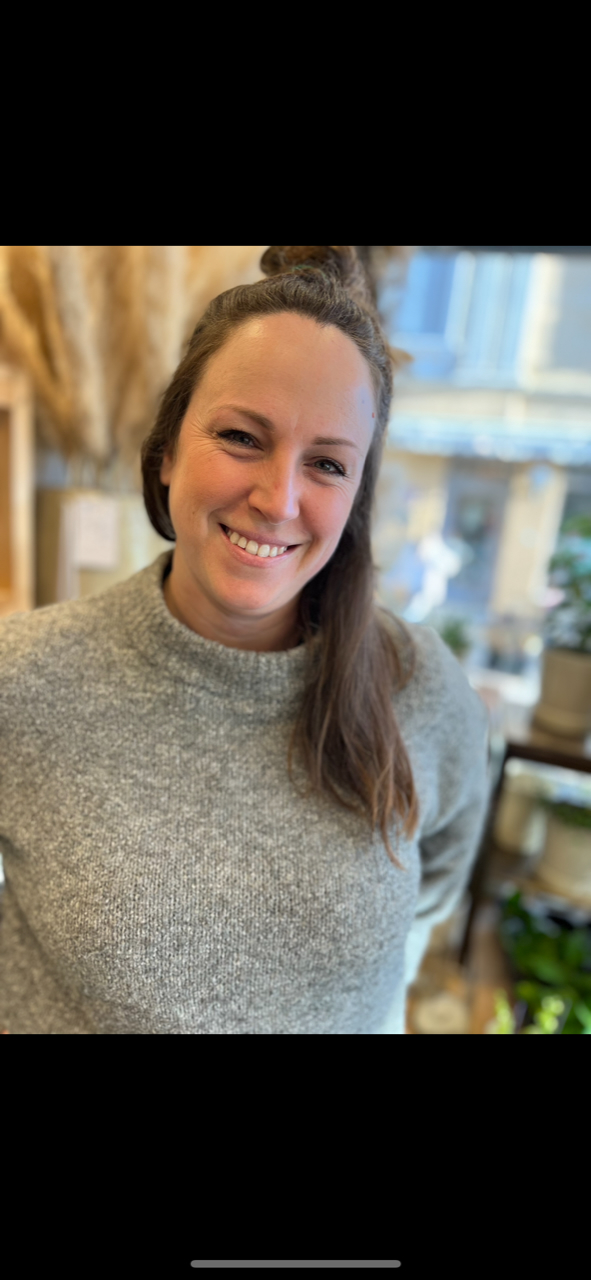
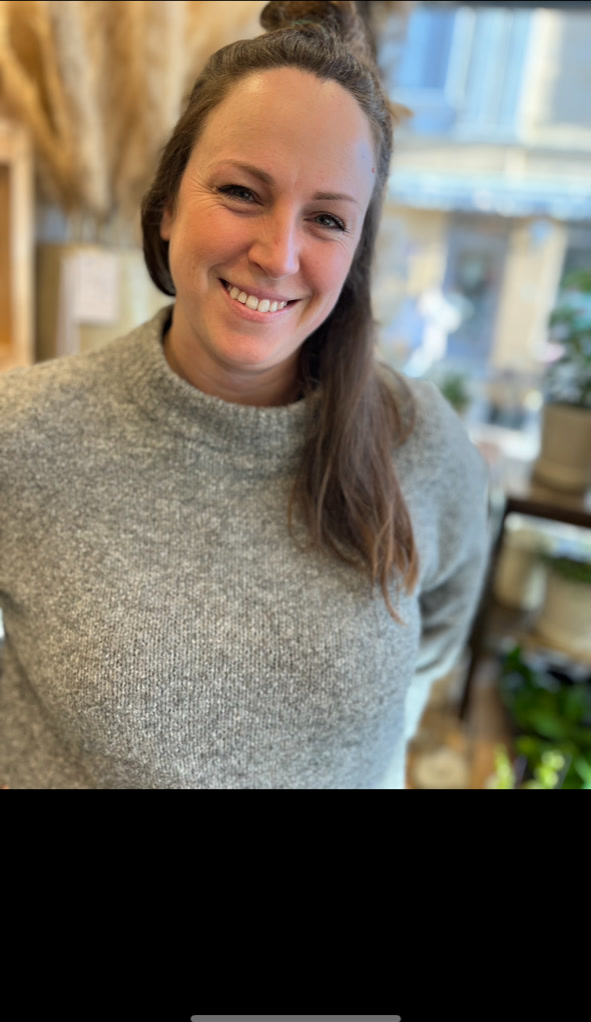
Initial commit — Trädgårdsfloristen hemsida

diff --git a/index.html b/index.html
@@ -48,7 +48,7 @@
       display: flex;
       align-items: center;
       justify-content: center;
-      height: 80px;
+      height: 100px;
       position: relative;
     }
     .nav-logo {
@@ -60,6 +60,10 @@
       font-size: 1.25rem;
       color: var(--green);
       text-decoration: none;
+    }
+    @media (max-width: 768px) {
+      .nav-logo img { height: 64px !important; }
+      .nav-inner { height: 80px; }
     }
     .nav-links {
       display: flex;
@@ -228,15 +232,17 @@
       align-items: center;
     }
     .about-image {
-      border-radius: 8px;
+      border-radius: 12px;
       overflow: hidden;
-      aspect-ratio: 4/5;
+      background: var(--cream);
+      height: 520px;
     }
     .about-image img {
       width: 100%;
       height: 100%;
       object-fit: cover;
-      border-radius: 8px;
+      object-position: center 10%;
+      display: block;
     }
     .about-text p { margin-bottom: 1.25rem; color: var(--text-muted); }
     .about-text p:last-of-type { margin-bottom: 2rem; }
@@ -515,8 +521,8 @@
       .nav-links { display: none; }
       .hamburger { display: flex; }
       .about-grid { grid-template-columns: 1fr; gap: 2rem; }
-      .about-image { aspect-ratio: 3/2; max-height: 300px; }
-      .about-image img { object-position: center 20%; }
+      .about-image { height: 320px; }
+      .about-image img { object-position: center 10%; }
       .contact-grid { grid-template-columns: 1fr; gap: 3rem; }
       .form-grid { grid-template-columns: 1fr; }
       .workshop-card { flex-direction: column; align-items: flex-start; gap: 1rem; }
@@ -536,7 +542,7 @@
       <li><a href="#blommor">Blommor</a></li>
       <li><a href="#gronsaker">Grönsaker</a></li>
     </ul>
-    <a href="#" class="nav-logo" style="position:absolute;left:50%;transform:translateX(-50%);"><img src="images/logo-tradgardsfloristen.png" alt="Trädgårdsfloristen" style="height:68px;width:auto;" /></a>
+    <a href="#" class="nav-logo" style="position:absolute;left:50%;transform:translateX(-50%);"><img src="images/logo-tradgardsfloristen.png" alt="Trädgårdsfloristen" style="height:90px;width:auto;" /></a>
     <ul class="nav-links" style="flex:1;justify-content:flex-end;">
       <li><a href="#workshops">Workshops</a></li>
       <li><a href="#anmalan">Anmälan</a></li>
@@ -555,6 +561,19 @@
     <a href="#kontakt" onclick="this.closest('.mobile-menu').classList.remove('open')">Kontakt</a>
   </div>
 </nav>
+
+<!-- NYHETSBREV TOP -->
+<section class="newsletter-bg" id="nyhetsbrev-top" style="padding:2rem 2rem;">
+  <div class="section-inner newsletter-inner">
+    <p style="color:rgba(255,255,255,0.85);font-size:0.95rem;margin-bottom:0.75rem;">📬 <strong style="color:#fff;">Håll dig uppdaterad</strong> — Få nyheter om workshops och säsongens blommor direkt i inkorgen.</p>
+    <form class="newsletter-form" name="newsletter-top" method="POST" data-netlify="true" netlify-honeypot="bot-field" style="justify-content:center;">
+      <input type="hidden" name="form-name" value="newsletter-top" />
+      <input type="hidden" name="bot-field" style="display:none" />
+      <input type="email" name="email" placeholder="din@epost.se" required style="max-width:280px;" />
+      <button type="submit">Prenumerera</button>
+    </form>
+  </div>
+</section>
 
 <!-- HERO -->
 <section class="hero" id="top">
